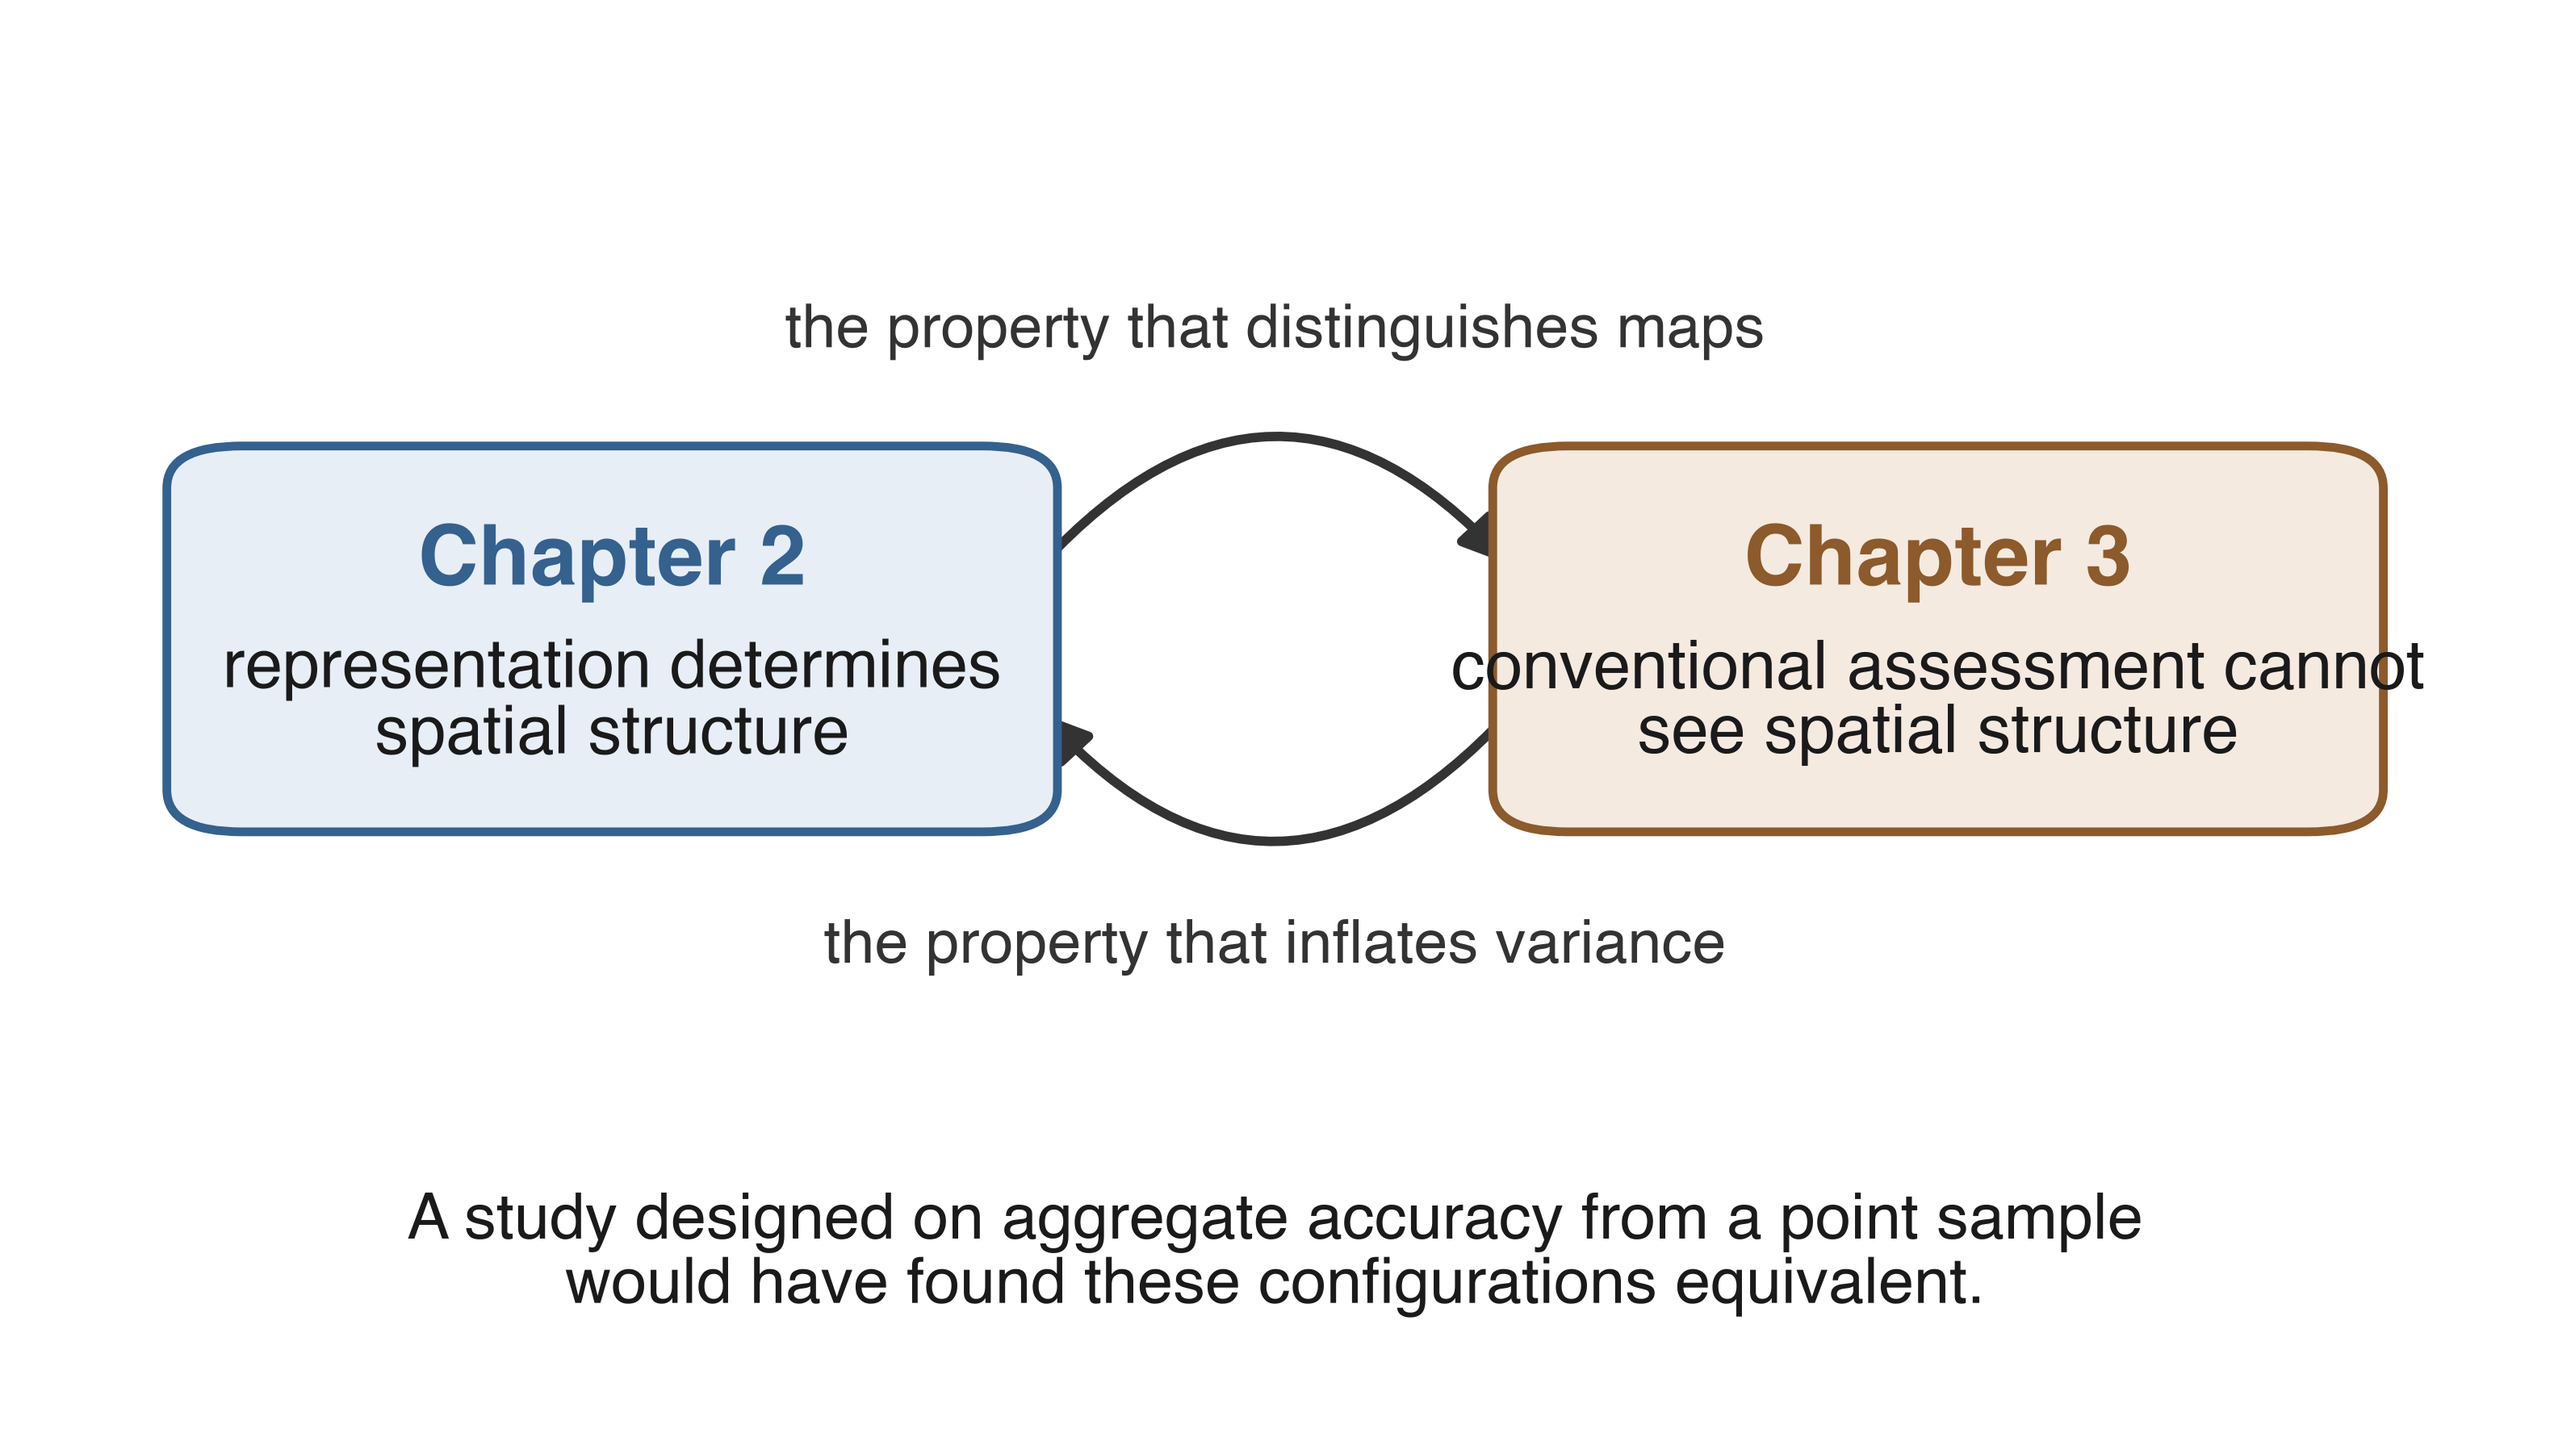
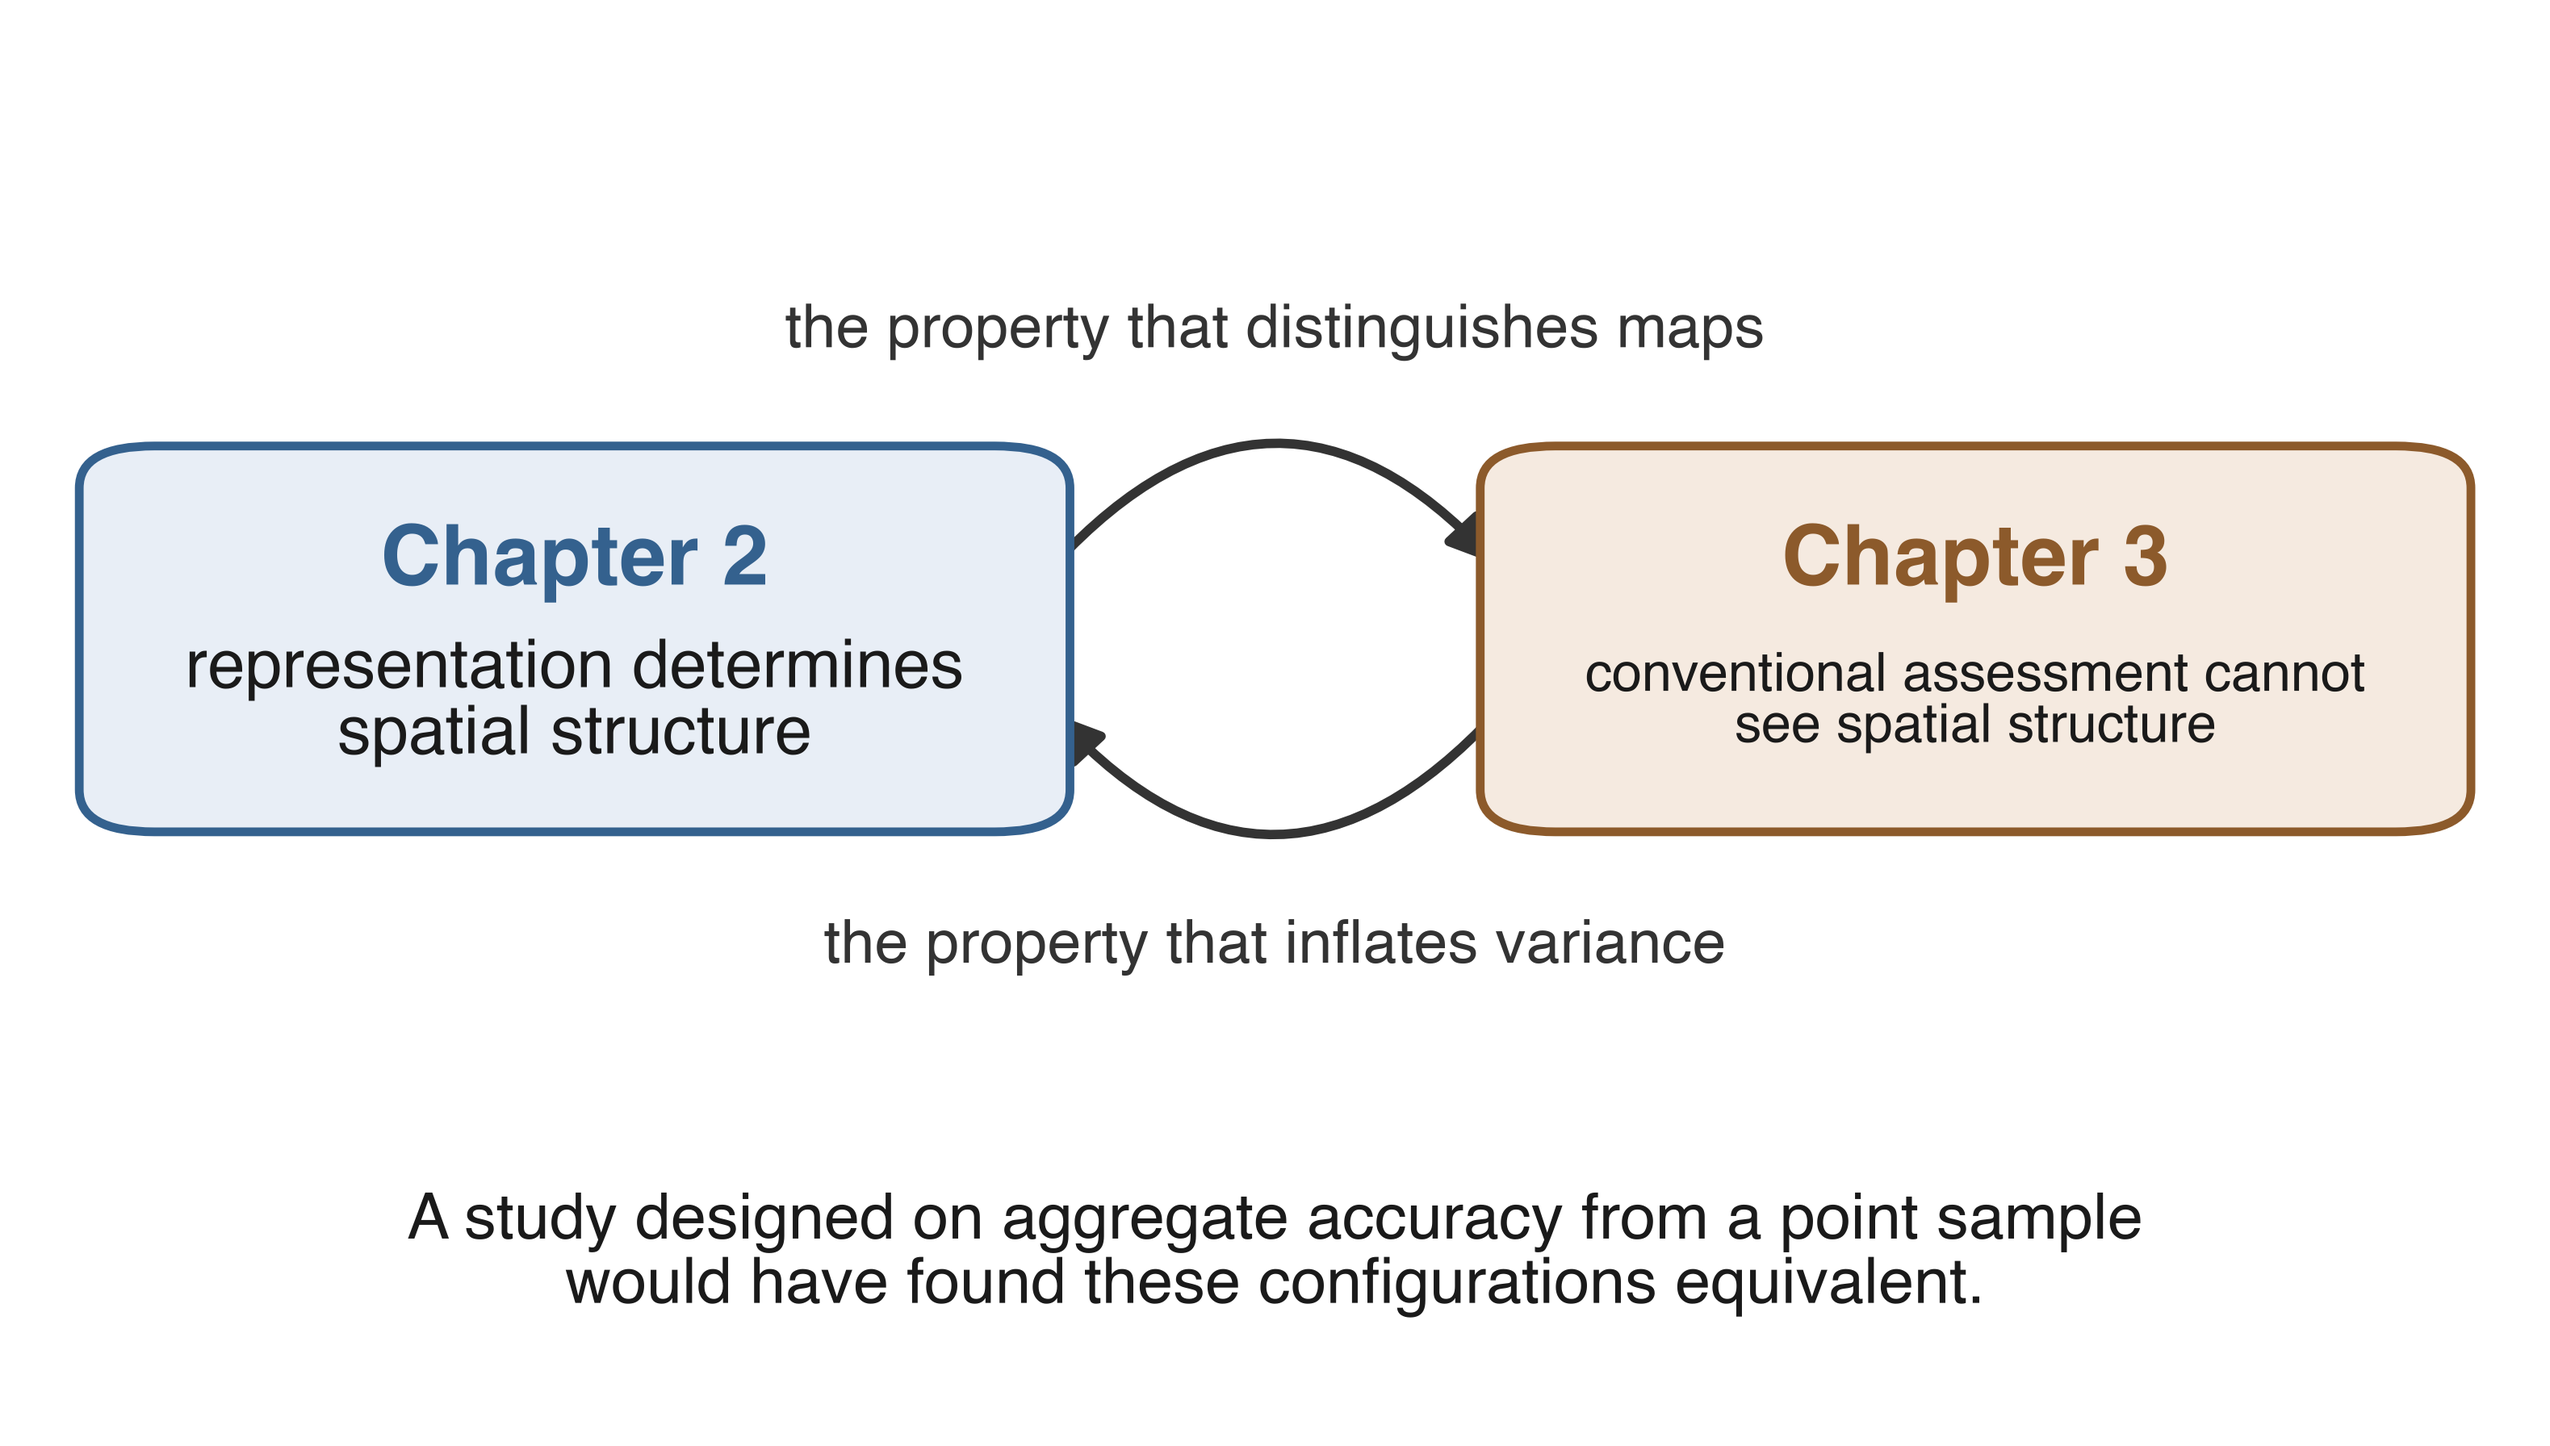
pres_08_synthesis_loop: auto-fit box text so it stays inside the boxes
Measure the box labels against the renderer and shrink to fit the box inner
width, and widen the boxes, so no text crosses the box borders.

diff --git a/presentation/scripts/pres_08_synthesis_loop.py b/presentation/scripts/pres_08_synthesis_loop.py
@@ -27,6 +27,19 @@ def _box(ax, cx, cy, w, h, face, edge):
                                 linewidth=2.6, edgecolor=edge, facecolor=face, zorder=3))
 
 
+def _fit(ax, renderer, text, max_w_frac, sizes, weight="normal"):
+    # largest of `sizes` whose rendered width (widest line) fits max_w_frac of the axes width,
+    # so box text never spills over the box borders
+    ax_w = ax.get_window_extent(renderer).width
+    for s in sizes:
+        t = ax.text(0.5, 0.5, text, fontsize=s, fontweight=weight)
+        w = t.get_window_extent(renderer).width / ax_w
+        t.remove()
+        if w <= max_w_frac:
+            return s
+    return sizes[-1]
+
+
 def main():
     plt.rcParams.update({"font.family": "sans-serif",
                          "font.sans-serif": ["Helvetica", "Arial", "DejaVu Sans"],
@@ -36,18 +49,23 @@ def main():
     ax.set_ylim(0, 1)
     ax.axis("off")
 
-    lcx, rcx, cy, bw, bh = 0.235, 0.765, 0.56, 0.34, 0.26
+    fig.canvas.draw()
+    renderer = fig.canvas.get_renderer()
+
+    lcx, rcx, cy, bw, bh = 0.22, 0.78, 0.56, 0.38, 0.26
     _box(ax, lcx, cy, bw, bh, "#E8EEF6", "#34618E")
     _box(ax, rcx, cy, bw, bh, "#F5EAE0", "#8C5A2B")
 
-    ax.text(lcx, cy + 0.055, "Chapter 2", ha="center", va="center", fontsize=25, fontweight="bold",
-            color="#34618E")
-    ax.text(lcx, cy - 0.045, "representation determines\nspatial structure", ha="center", va="center",
-            fontsize=20, color="0.1")
-    ax.text(rcx, cy + 0.055, "Chapter 3", ha="center", va="center", fontsize=25, fontweight="bold",
-            color="#8C5A2B")
-    ax.text(rcx, cy - 0.045, "conventional assessment cannot\nsee spatial structure", ha="center",
-            va="center", fontsize=20, color="0.1")
+    inner = bw - 0.05   # box inner width the text must fit inside
+    boxes = [
+        (lcx, "Chapter 2", "representation determines\nspatial structure", "#34618E"),
+        (rcx, "Chapter 3", "conventional assessment cannot\nsee spatial structure", "#8C5A2B"),
+    ]
+    for cx, head, phrase, col in boxes:
+        hs = _fit(ax, renderer, head, inner, [25, 24, 23, 22], weight="bold")
+        ps = _fit(ax, renderer, phrase, inner, [20, 19, 18, 17, 16, 15])
+        ax.text(cx, cy + 0.055, head, ha="center", va="center", fontsize=hs, fontweight="bold", color=col)
+        ax.text(cx, cy - 0.045, phrase, ha="center", va="center", fontsize=ps, color="0.1")
 
     # forward arrow (left -> right), bowing up, and return arrow (right -> left), bowing down
     xl, xr = lcx + bw / 2, rcx - bw / 2
